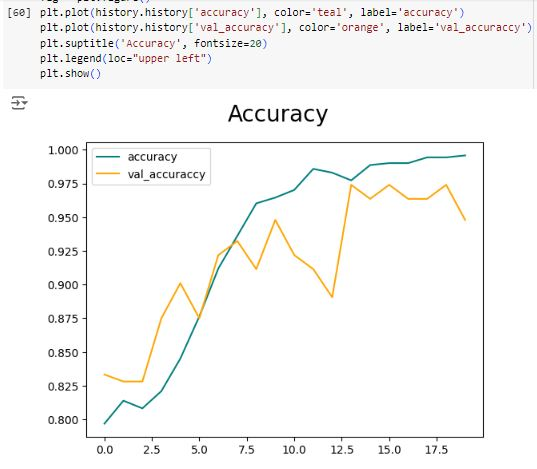
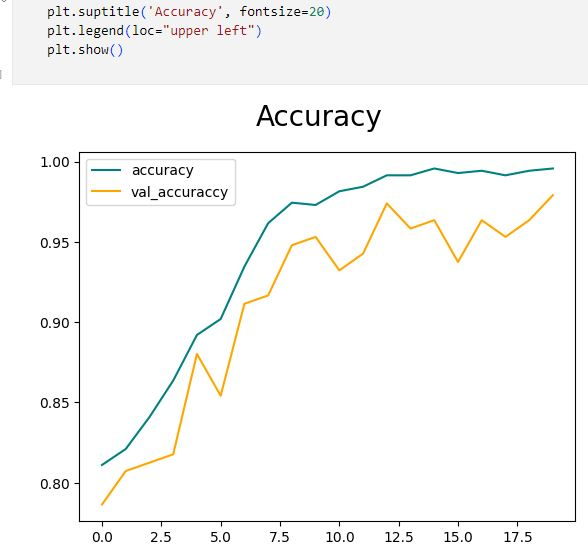
continued

diff --git a/README.md b/README.md
@@ -1,34 +1,66 @@
-# Tensorflow Image Classification
-- In this project, i explore how to gather images from the web for happy and sad faces recognition, preprocess the images, and train a model using the images.
+# TensorFlow Image Classification
+- In this project, I explore how to gather images from the web for happy and sad face recognition, preprocess the images, and train a model using those images.
+- You can get the code in [tensorflow_image_classification.ipynb](./tensorflow_image_classification.ipynb)
 
-## Gathering images
-- I downloaded images from google by querying for `happy face images` and `sad face images` and used the `Download all images` extension to download all the results. I then removed vector files and other images that do not end in file extensions ['jpeg', 'jpg', 'png'] using `os.listdir` and `os.remove`.
+## Gathering Images
+- I downloaded images from Google by querying for "happy face images" and "sad face images" using the `Download all images` extension to download all the results.
+- I then removed vector files and other images that do not have file extensions like ['jpeg', 'jpg', 'png'] using `os.listdir` and `os.remove`.
 
-![files](./screenshots/files.JPG)
-![remove](./screenshots/remove.JPG)
+![Image files organized in directories](./screenshots/files.JPG)
+
+- After identifying images to be removed, I used a simple script to clean the dataset and retain only valid image formats.
+
+![Removing invalid image files](./screenshots/remove.JPG)
 
 ## Dataset Generation
-- After that i created the dataset generator using `tf.keras.utils.image_dataset_from_directory` and `as_numpy_iterator()` to get a single batch and take a look at the shape and plot the images.
+- After cleaning the images, I created the dataset generator using `tf.keras.utils.image_dataset_from_directory` and called `as_numpy_iterator()` to extract a single batch, which allowed me to inspect the shape and structure of the data.
+- Below is the dataset after loading the images.
 
-![dataset](./screenshots/loaded.JPG)
+![Dataset loaded](./screenshots/loaded.JPG)
 
-![batch](./screenshots/batch.JPG)
+- A look at a single batch of data to inspect the size and format of the images.
 
-![imgs](./screenshots/imgs.JPG)
+![Batch of images](./screenshots/batch.JPG)
+
+- I then plotted the images from the dataset to visually confirm the preprocessing steps.
+
+![Sample images](./screenshots/imgs.JPG)
 
 ## Model Architecture
-- I then built a model using the `Sequential` API with 3 `Con2D` and `MaxPooling2D` blocks and a `Dense` layer before the final `sigmoid` activated `Dense` layer that will predict happy or sad.
-- I used `BinaryCrossentropy` loss and `adam` optimizer.
+- The model was constructed using the `Sequential` API. It consists of 3 convolutional (`Conv2D`) and pooling (`MaxPooling2D`) blocks, followed by a dense layer for classification. The final dense layer has a `softmax` activation to predict either "happy" or "sad."
+- The model was compiled using `sparse_categorical_crossentropy` as the loss function and the `adam` optimizer.
 
-![model](./screenshots/model.JPG)
+![Model architecture summary](./screenshots/model.JPG)
 
 ## Model Training
-- I trained the model for 10 epochs and the history shows 97% validation accuracy and 94% test accuracy.
+- I trained the model for 10 epochs. Below are the accuracy and loss curves, indicating the progress during training.
+- The model achieved a validation accuracy of 97% and a test accuracy of 94%.
 
-![acc](./screenshots/acc.JPG) ![loss](./screenshots/loss.JPG)
+![Training accuracy curve](./screenshots/acc.JPG)
 
-![first3 epochs](./screenshots/first3.JPG)
-![last 3 epochs](./screenshots/last3.JPG)
+![Training loss curve](./screenshots/loss.JPG)
 
+- The training progress during the first three epochs is visualized below.
 
+![Training progress for first 3 epochs](./screenshots/first3.JPG)
 
+- Finally, this shows the progress of the last 3 epochs of the training process.
+
+![Training progress for last 3 epochs](./screenshots/last3.JPG)
+
+## Setup
+- Create a virtual environment: `python -m venv venv`
+- Activate the virtual environment: `call venv/Scripts/activate.bat` in cmd
+- Install the dependencies: `pip install -r requirements.txt`
+
+# Libraries
+- TensorFlow
+- Numpy
+- Matplotlib
+- OS
+
+## Contact
+- LinkedIn: [Natan Asrat](https://linkedin.com/in/natan-asrat)
+- Gmail: nathanyilmaasrat@gmail.com
+- Telegram: [Natan Asrat](https://t.me/fail_your_way_to_success)
+- Youtube: [Natville](https://www.youtube.com/@natvilletutor)
